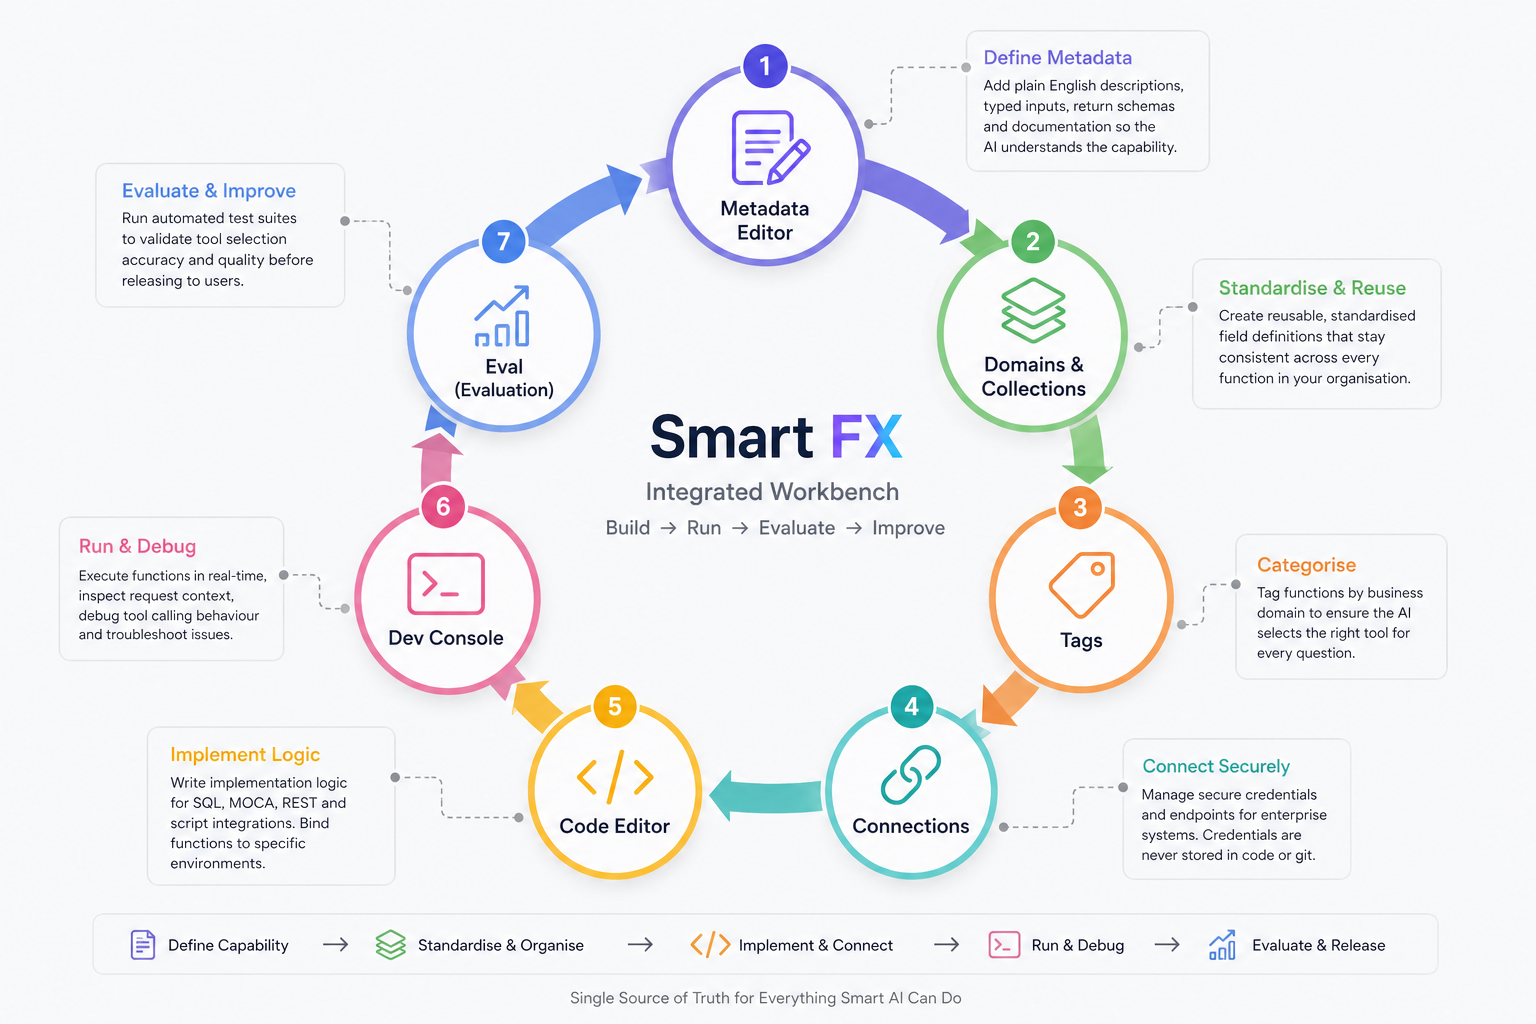
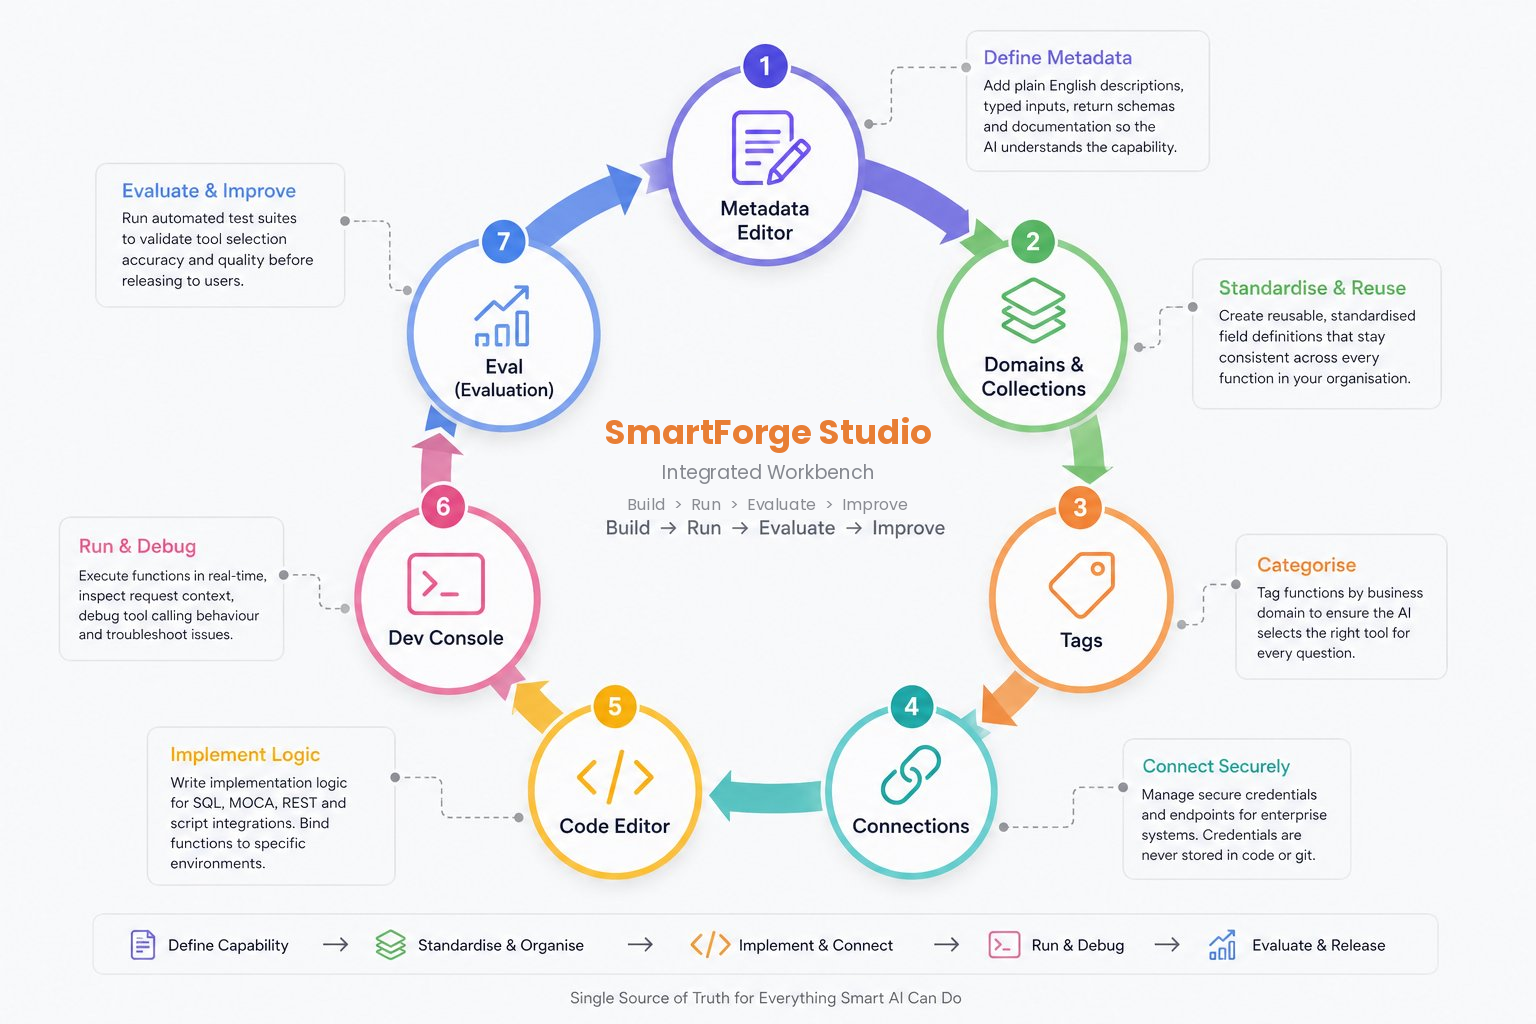
added AI and edit attachment

diff --git a/docs/concepts.md b/docs/concepts.md
@@ -67,7 +67,7 @@ SmartForge is built on three tightly integrated components. Each one has a disti
 ### Define capabilities
 SmartForge Studio is the workbench where builders and integrators define what SmartForge can do. Every capability in SmartForge Cortex exists because someone built a function (also called an Intent) in SmartForge Studio. This is where business logic lives — clearly defined, versioned, and reusable.
 
-<img src=".attachments/SmartForge Studio-flow.png" style="border-radius: 20px; width: 100%;">
+<img src=".attachments/smartfx-flow.png" style="border-radius: 20px; width: 100%;">
 
 ## Pillar 2: SmartForge Nexes
 ### Secure execution
@@ -93,7 +93,7 @@ WMS reports 500 units on-hand. TMS reports 150 units in transit. ERP reports 200
 
 ## Pillar 3: SmartForge Cortex
 ### How you interact
-SmartForge Cortex is the conversational interface where end users and business teams interact with their data. You ask questions in plain English — it handles the rest. You can ask follow-up questions, request visualisations, and set up automated workflows, all from the same interface.
+SmartForge Cortex is an AI-powered conversational interface where end users and business teams interact with their data. You ask questions in plain English — it handles the rest. You can ask follow-up questions, request visualisations, and set up automated workflows, all from the same interface.
 
 What you can do in SmartForge Cortex:
 

diff --git a/docs/getting-started.md b/docs/getting-started.md
@@ -1,6 +1,6 @@
 # Getting Started with SmartForge
 
-SmartForge is an intelligent platform that allows you to connect to enterprise systems, add and manage your business logic, and interact with your data using simple, natural language. You can trigger business workflows, retrieve insights, and leverage AI-powered analysis through easy, conversational commands—making complex operations simple and accessible.
+SmartForge is an AI-powered intelligent platform that allows you to connect to enterprise systems, add and manage your business logic, and interact with your data using simple, natural language. You can trigger business workflows, retrieve insights, and leverage AI-powered analysis through easy, conversational commands—making complex operations simple and accessible.
 
 ---
 
@@ -374,7 +374,7 @@ MCP (Model Context Protocol) allows your business functions to be used across ex
 ---
 ## Secure Chat
 
-SmartForge Cortex is the secure conversational interface of SmartForge, letting you interact with enterprise systems without exposing actual data to the LLM.
+SmartForge Cortex is the secure AI-powered conversational interface of SmartForge, letting you interact with enterprise systems without exposing actual data to the LLM.
 
 - Execute functions, schedule workflows, and analyze data using natural language
 - Uses code generation in an isolated environment, sharing only metadata for insights (charts, filtering, etc.)

diff --git a/docs/architecture.md b/docs/architecture.md
@@ -1,6 +1,6 @@
 # Architecture
 
-This page provides a high-level overview of how SmartForge transforms a user-defined business intent—created in SmartForge Studio—into actionable outcomes. It shows how SmartForge Nexes acts as a data orchestration layer, unifying and coordinating data across systems, and how users can then interact with this intelligence through natural language chat or via tools exposed through an MCP server.
+This page provides a high-level overview of how SmartForge transforms a user-defined business intent—created in SmartForge Studio into actionable outcomes. It shows how SmartForge Nexes acts as a data orchestration layer, unifying and coordinating data across systems, and how users can then interact with this intelligence through natural language chat or via tools exposed through an MCP server.
 
 > _Build approved functions in SmartForge Studio → execute securely via SmartForge Nexes → deliver results in SmartForge Cortex or via MCP._
 
@@ -39,7 +39,7 @@ It:
 
 ### [SmartForge Cortex](./smart-chat.md)
 
-SmartForge Cortex is the **secure conversational interface of SmartForge**.
+SmartForge Cortex is the ** AI-powered secure conversational interface of SmartForge**.
 
 It allows users to interact with enterprise systems using natural language while ensuring only **approved functions, actions, and data access** are executed.
 

diff --git a/docs/smart-chat.md b/docs/smart-chat.md
@@ -1,6 +1,6 @@
 # <img class="sf-doc-icon" src="assets/smartforge/icons/smartforge-cortex-naked.svg" alt=""> SmartForge Cortex
 
-SmartForge Cortex is the secure conversational interface of SmartForge that helps you interact with connected enterprise systems.
+SmartForge Cortex is the AI-powered secure conversational interface of SmartForge that helps you interact with connected enterprise systems.
 
 ## What you can do in SmartForge Cortex
 
@@ -67,7 +67,7 @@ SmartForge identifies key fields and data types and generates charts/metrics to 
 
 <img src=".attachments/auto_dashboard.png" alt="Auto-generated Dashboard Example" width="750">
 
-Dashboards are created automatically without any manual configuration, with intelligent chart type selection based on your data patterns. You get:
+Dashboards are created automatically without any manual configuration, with AI-powered intelligent chart type selection based on your data patterns. You get:
 - Automatic trend detection
 - Relevant metric cards
 - Filterable interactive views

diff --git a/docs/overview.md b/docs/overview.md
@@ -16,7 +16,6 @@ SmartForge is organized into three major components:
 
 - **SmartForge Nexes**: The secure connectivity and governance layer that routes requests to the correct system, enforces permissions, and validates parameters before execution. It executes federated queries directly on source systems in real time without replicating or storing business data.  
 
-- **SmartForge Cortex**: The conversational platform that lets users interact with enterprise systems and trigger approved actions, including follow-ups, queries, and on-demand visualizations. Users can generate visualizations, create automated workflows, and request follow-up actions without leaving the conversation.  
-
+- **SmartForge Cortex**: The AI-powered conversational platform that lets users interact with enterprise systems and trigger approved actions, including follow-ups, queries, and on-demand visualizations. Users can generate visualizations, create automated workflows, and request follow-up actions without leaving the conversation.
 
 

diff --git a/docs/why-smart-ai.md b/docs/why-smart-ai.md
@@ -7,7 +7,7 @@ At the same time, it enables safe and seamless AI interaction by securely transl
 ## Key Capabilities  
 
 - **SmartForge Cortex Interface**  
-  Interact with enterprise systems using natural language and instantly perform real business operations with context-aware understanding.
+  Interact with enterprise systems using natural language and instantly perform real business operations with context-aware AI understanding.
 
 - **Intent-to-Execution Automation**  
   Seamlessly convert user requests into secure, validated actions across ERP, WMS, TMS, and other enterprise systems in real time.

diff --git a/docs/_coverpage.md b/docs/_coverpage.md
@@ -18,7 +18,7 @@
   </div>
 </div>
 
-- SmartForge brings your enterprise systems together in one intelligent platform; connect your data, manage business logic, and execute operations with security, visibility, and control.
+- SmartForge brings your enterprise systems together in one  AI-powered intelligent platform; connect your data, manage business logic, and execute operations with security, visibility, and control.
 
 [Documentation](./overview.md)
 

diff --git a/docs/faq.md b/docs/faq.md
@@ -42,7 +42,7 @@ The outcome is a single, consistent answer.
 
 ## What is SmartForge Cortex?
 
-SmartForge Cortex is the **conversational interface of SmartForge** that lets users interact with enterprise systems using natural language.
+SmartForge Cortex is the **AI-powered conversational interface of SmartForge** that lets users interact with enterprise systems using natural language.
 
 You can:
 - Retrieve live operational data  
